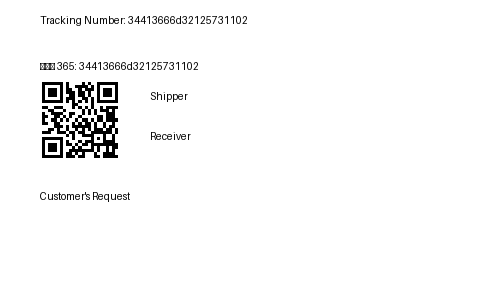
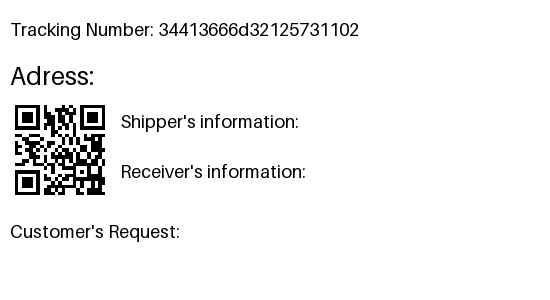
waybill update

diff --git a/test.py b/test.py
@@ -2,16 +2,12 @@ import qrcode
 from PIL import Image, ImageDraw, ImageFont
 import json
 
-
 json_file_path = 'trackingdata.json'
 
-
 with open(json_file_path, 'r') as json_file:
-
     data = json.load(json_file)
 
 tracking_number = '34413666d32125731102'
-
 
 qr = qrcode.QRCode(
     version=1,
@@ -26,35 +22,32 @@ qr_code = qr.make_image(fill_color="black", back_color="white")
 qr_path = f"{tracking_number}_qr.png"
 qr_code.save(qr_path)
 
-
-width, height = 500, 300
+width, height = 550, 300
 
 image = Image.new("RGB", (width, height), "white")
 draw = ImageDraw.Draw(image)
 
-font = ImageFont.load_default()
-font_size = 30
+# Increase font size to 16 (modify the size as needed)
+font_size = 18
+font = ImageFont.load_default().font_variant(size=font_size)
+font2 = ImageFont.load_default().font_variant(size=25)
 
-receiver_info = "Receiver"
-sender_info = "Shipper"
-customer_request_text = "Customer's Request"
+receiver_info = "Receiver's information:"
+sender_info = "Shipper's information:"
+customer_request_text = "Customer's Request:"
 
-draw.text((40, 14), f"Tracking Number: {tracking_number}", fill="black", font=font)
-draw.text((40, 60), f"봉정로 365: {tracking_number}", fill="black", font=font)
-draw.text((150, 90), sender_info, fill="black", font=font)
-draw.text((150, 130), receiver_info, fill="black", font=font)
-
-
+draw.text((10, 18), f"Tracking Number: {tracking_number}", fill="black", font=font)
+draw.text((10, 60), f"Adress:", fill="black", font=font2)
+draw.text((120, 110), sender_info, fill="black", font=font)
+draw.text((120, 160), receiver_info, fill="black", font=font)
 
 qr_img = Image.open(qr_path)
 qr_width, qr_height = qr_img.size
-desired_qr_height = 100  
+desired_qr_height = 120  
 desired_qr_width = int(qr_width * (desired_qr_height / qr_height))
 qr_img = qr_img.resize((desired_qr_width, desired_qr_height))
-image.paste(qr_img, (30, 70))
-draw.text((40, 190), customer_request_text, fill="black", font=font)
+image.paste(qr_img, (0, 90))
+draw.text((10, 220), customer_request_text, fill="black", font=font)
 
 image.save("shipping_label_with_qr.png")
-
-
 image.show()

diff --git a/README.md b/README.md
@@ -49,7 +49,7 @@ The green area is "Seobuk-gu, Cheonan-si", gray area is "Dongman-gu, Cheonan-si"
 
 ### 3. Waybill Standardization / 운송장 표준화
 
-![shipping_label_with_qr](https://github.com/Dongwon-tuna/Tracking-number-generator/assets/61178312/f8cbbdf9-6013-400a-9297-2be66114f3be)
+![shipping_label_with_qr](https://github.com/Dongwon-tuna/Tracking-number-generator/assets/61178312/981cb82f-c048-4cc0-8bbe-08080c13fd7c)
 
 Korean didn't works in here...find out the reason...
 
